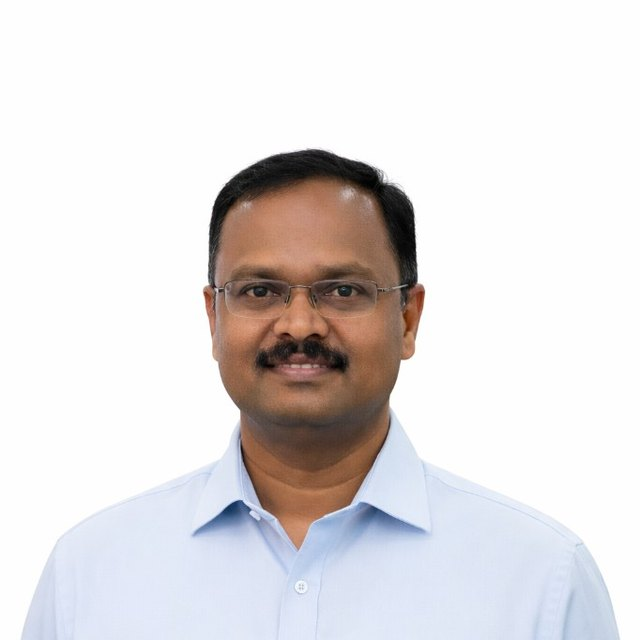
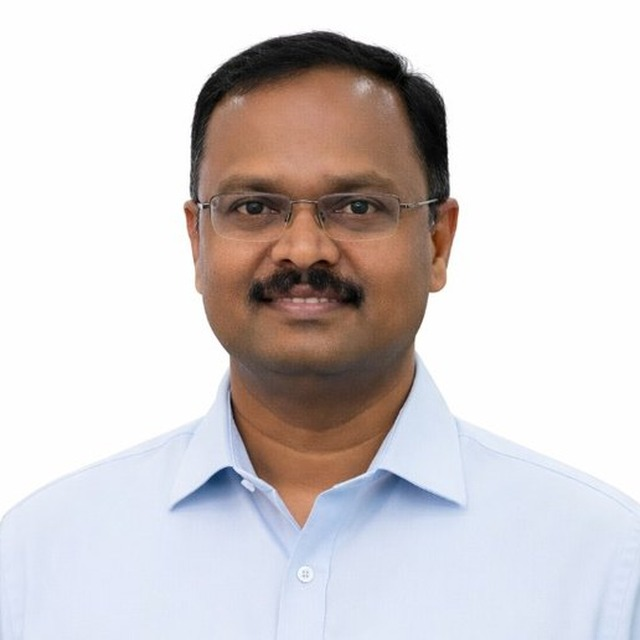
changed the hairline level of Shri Bhimbe sir r=to match it with others in the same row

diff --git a/src/data/tourContent.ts b/src/data/tourContent.ts
@@ -10,7 +10,7 @@ export type TourStepId =
   | "rts"
   | "notices"
   | "local"
-  | "finish";
+  | "ai-mitra";
 
 export type TourTargetId =
   | "a11y"
@@ -22,6 +22,7 @@ export type TourTargetId =
   | "rts-services"
   | "whats-new"
   | "user-manual"
+  | "ai-mitra"
   | null;
 
 export type TourStepDef = {
@@ -60,8 +61,6 @@ export const TOUR_UI = {
   close: { mr: "बंद करा", en: "Close" } as const,
   langMr: "मराठी",
   langEn: "English",
-  stepOf: (n: number, total: number, lang: TourLang) =>
-    lang === "mr" ? `पायरी ${n} / ${total}` : `Step ${n} of ${total}`,
   fab: {
     mr: "वेबसाइट मार्गदर्शक",
     en: "Website Guide",
@@ -234,17 +233,24 @@ export const TOUR_STEPS: TourStepDef[] = [
     ],
   },
   {
-    id: "finish",
-    target: null,
-    layout: "center",
+    id: "ai-mitra",
+    target: "ai-mitra",
+    layout: "spotlight",
     title: {
-      mr: "आपण तयार आहात!",
-      en: "You're all set!",
+      mr: "AI Mitra ला भेटा",
+      en: "Meet AI Mitra",
     },
     body: {
-      mr: "आता तुम्ही CSMC वेबसाइटवर सेवा, माहिती आणि नागरिक सुविधा सहज शोधू शकता.",
-      en: "You can now find services, information and civic facilities on the CSMC website with confidence.",
+      mr: "नागरिक माहिती शोधण्यासाठी मदत हवी आहे का? AI Mitra म्हणजे पृष्ठ शीर्षकावरील स्मार्ट छत्रपती संभाजीनगर व्हॉट्सॲप चॅटबॉट. ठळक केलेले हिरवे बटण निवडा. ते व्हॉट्सॲप संभाषण उघडते, जिथे तुम्ही CSMC सेवा आणि माहितीसाठी मदत मागू शकता.",
+      en: "Need help finding civic information? AI Mitra is the Smart Chhatrapati Sambhajinagar WhatsApp chatbot in the page header. Select the highlighted green button to open a WhatsApp chat and ask for help with CSMC services and information.",
     },
+    links: [
+      {
+        label: { mr: "व्हॉट्सॲपवर AI Mitra उघडा", en: "Open AI Mitra on WhatsApp" },
+        to: OFFICIAL.whatsappChatbot,
+        external: true,
+      },
+    ],
   },
 ];
 

diff --git a/src/components/site/SiteTourGuide.tsx b/src/components/site/SiteTourGuide.tsx
@@ -494,7 +494,7 @@ export const SiteTourGuide = () => {
   // Live region + search demo seed
   useEffect(() => {
     if (!open) return;
-    setLiveMsg(`${TOUR_UI.stepOf(step + 1, total, L)}. ${current.title[L]}`);
+    setLiveMsg(current.title[L]);
     if (current.searchDemo) {
       setDemoQuery(current.searchDemo.query[L]);
     } else {
@@ -721,22 +721,16 @@ export const SiteTourGuide = () => {
         </div>
       )}
 
-      {/* Progress: text + dots */}
-      <div className="mt-5 flex flex-col gap-2">
-        <p className="text-xs font-semibold text-[#003366]/70" aria-hidden={false}>
-          {TOUR_UI.stepOf(step + 1, total, L)}
-        </p>
-        <div className="flex items-center gap-2" role="presentation">
-          {TOUR_STEPS.map((s, i) => (
-            <span
-              key={s.id}
-              className={`h-2 rounded-full transition-all ${
-                i === step ? "w-6 bg-[#ff9933]" : i < step ? "w-2 bg-[#003366]/45" : "w-2 bg-[#003366]/20"
-              }`}
-              title={TOUR_UI.stepOf(i + 1, total, L)}
-            />
-          ))}
-        </div>
+      {/* Progress dots follow the step list. No numeric "Step X of Y" label. */}
+      <div className="mt-5 flex items-center gap-2" role="presentation" aria-hidden="true">
+        {TOUR_STEPS.map((s, i) => (
+          <span
+            key={s.id}
+            className={`h-2 rounded-full transition-all ${
+              i === step ? "w-6 bg-[#ff9933]" : i < step ? "w-2 bg-[#003366]/45" : "w-2 bg-[#003366]/20"
+            }`}
+          />
+        ))}
       </div>
     </>
   );
@@ -801,7 +795,6 @@ export const SiteTourGuide = () => {
                 <Globe2 className="h-5 w-5 shrink-0 text-[hsl(var(--civic-gold))]" aria-hidden />
                 <div className="min-w-0 flex-1">
                   <p className="truncate text-sm font-bold tracking-wide">{TOUR_UI.guideTitle[L]}</p>
-                  <p className="text-[11px] text-white/75">{TOUR_UI.stepOf(step + 1, total, L)}</p>
                 </div>
 
                 <div

diff --git a/src/components/site/Header.tsx b/src/components/site/Header.tsx
@@ -318,6 +318,7 @@ export const Header = () => {
         <Tooltip>
           <TooltipTrigger asChild>
             <a href="https://api.whatsapp.com/send?phone=919485202020&text=Hi" target="_blank" rel="noopener noreferrer"
+              data-tour="ai-mitra"
               className="flex items-center justify-center w-8 h-8 rounded-full hover:scale-110 transition-transform shrink-0"
               style={{ backgroundColor: "#25D366" }} aria-label={whatsappLabel}>
               <svg viewBox="0 0 32 32" width="18" height="18" fill="white"><path d="M16 2C8.268 2 2 8.268 2 16c0 2.492.648 4.832 1.783 6.865L2 30l7.335-1.763A13.94 13.94 0 0 0 16 30c7.732 0 14-6.268 14-14S23.732 2 16 2zm0 25.5a11.44 11.44 0 0 1-5.834-1.594l-.418-.248-4.352 1.046 1.074-4.234-.272-.435A11.46 11.46 0 0 1 4.5 16C4.5 9.596 9.596 4.5 16 4.5S27.5 9.596 27.5 16 22.404 27.5 16 27.5zm6.29-8.388c-.344-.172-2.036-1.004-2.352-1.118-.316-.115-.546-.172-.776.172-.23.344-.89 1.118-1.09 1.348-.2.23-.4.258-.744.086-.344-.172-1.452-.535-2.766-1.707-1.022-.912-1.712-2.037-1.912-2.381-.2-.344-.021-.53.15-.701.155-.154.344-.402.516-.603.172-.2.23-.344.344-.574.115-.23.058-.43-.029-.603-.086-.172-.776-1.87-1.063-2.56-.28-.672-.564-.581-.776-.592l-.66-.011c-.23 0-.603.086-.918.43-.316.344-1.205 1.177-1.205 2.87s1.233 3.328 1.405 3.558c.172.23 2.427 3.706 5.88 5.196.822.355 1.463.567 1.963.726.824.263 1.574.226 2.167.137.661-.099 2.036-.832 2.323-1.635.287-.803.287-1.491.2-1.635-.086-.143-.316-.23-.66-.402z"/></svg>

diff --git a/src/components/site/OrganogramChart.tsx b/src/components/site/OrganogramChart.tsx
@@ -22,9 +22,11 @@ function PersonPhoto({
   designation: string;
   large?: boolean;
 }) {
-  const size = large ? "h-28 w-28 sm:h-32 sm:w-32" : "h-[5.5rem] w-[5.5rem] sm:h-24 sm:w-24";
+  const size = large
+    ? "h-28 w-28 shrink-0 flex-[0_0_7rem] sm:h-32 sm:w-32 sm:flex-[0_0_8rem]"
+    : "h-[5.5rem] w-[5.5rem] shrink-0 flex-[0_0_5.5rem] sm:h-24 sm:w-24 sm:flex-[0_0_6rem]";
   return (
-    <div className={`${photoFrame} ${size}`}>
+    <div className={`${photoFrame} flex items-center justify-center ${size}`}>
       <div className="absolute inset-0 overflow-hidden rounded-full">
         {person.photo ? (
           <img src={person.photo} alt={`${name}, ${designation}`} className="h-full w-full object-cover object-top" />
@@ -92,8 +94,8 @@ export function OrganogramChart() {
             <ol
               className={
                 featured
-                  ? "mx-auto flex max-w-xs list-none justify-center p-0"
-                  : "flex list-none flex-wrap justify-center gap-x-3 gap-y-8 p-0 lg:gap-x-3 2xl:gap-x-5"
+                  ? "mx-auto flex max-w-xs list-none items-start justify-center p-0"
+                  : "flex list-none flex-wrap items-start justify-center gap-x-3 gap-y-8 p-0 lg:gap-x-3 2xl:gap-x-5"
               }
             >
               {group.people.map((person) => (

diff --git a/src/data/organogram.ts b/src/data/organogram.ts
@@ -372,7 +372,7 @@ export const ORGANOGRAM_PEOPLE: OrganogramPerson[] = [
     level: 5,
     order: 2,
     group: "engineers",
-    status: "active",
+    status: "archived",
     verified: false,
   },
   {
@@ -386,7 +386,7 @@ export const ORGANOGRAM_PEOPLE: OrganogramPerson[] = [
     level: 5,
     order: 3,
     group: "engineers",
-    status: "active",
+    status: "archived",
     verified: false,
   },
   {
@@ -400,9 +400,9 @@ export const ORGANOGRAM_PEOPLE: OrganogramPerson[] = [
     departmentMr: "रस्ते विभाग",
     phone: "9423355137",
     parentId: "sanjay-kombde",
-    level: 5,
-    order: 4,
-    group: "engineers",
+    level: 6,
+    order: 0,
+    group: "officers",
     status: "active",
     ...confirmed,
   },

diff --git a/src/lib/tourPersistence.ts b/src/lib/tourPersistence.ts
@@ -1,6 +1,6 @@
 /** localStorage helpers for the Website Guide (SiteTourGuide). */
 
-export const TOUR_VERSION = "2";
+export const TOUR_VERSION = "3";
 
 export const TOUR_KEYS = {
   completed: "csmc_tour_completed",
